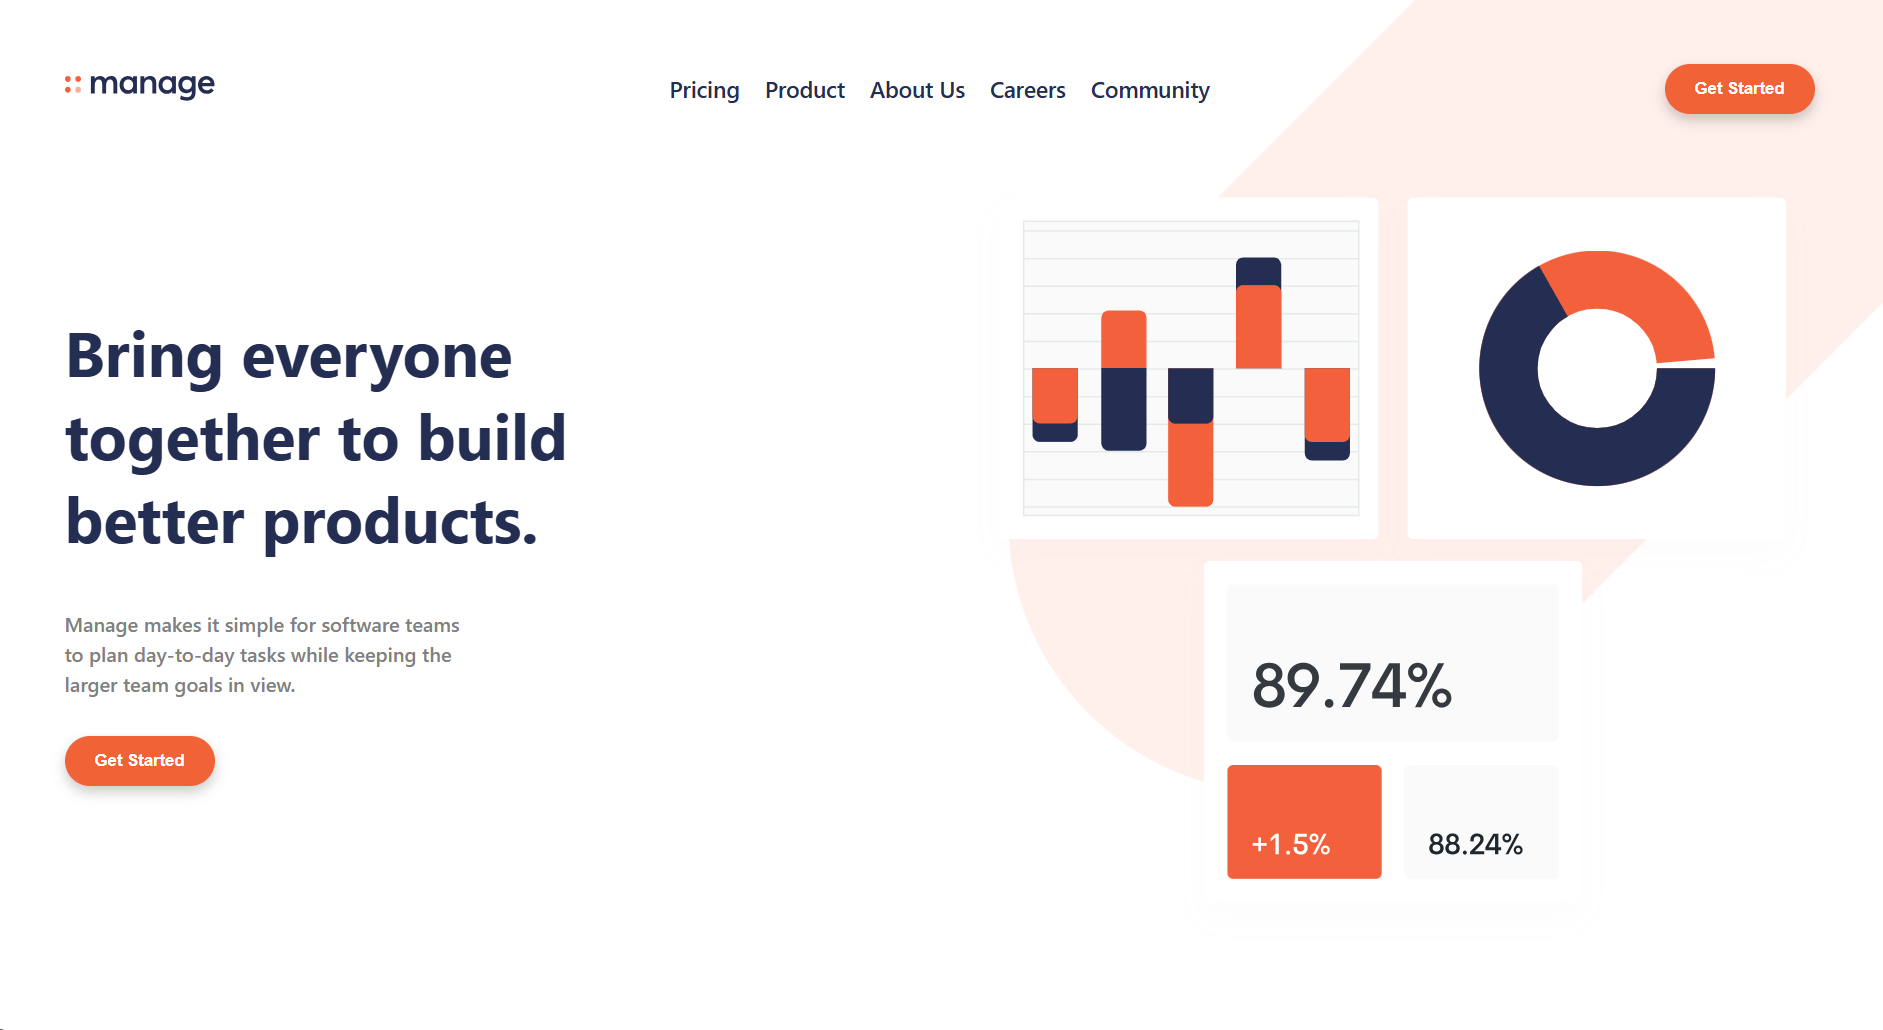
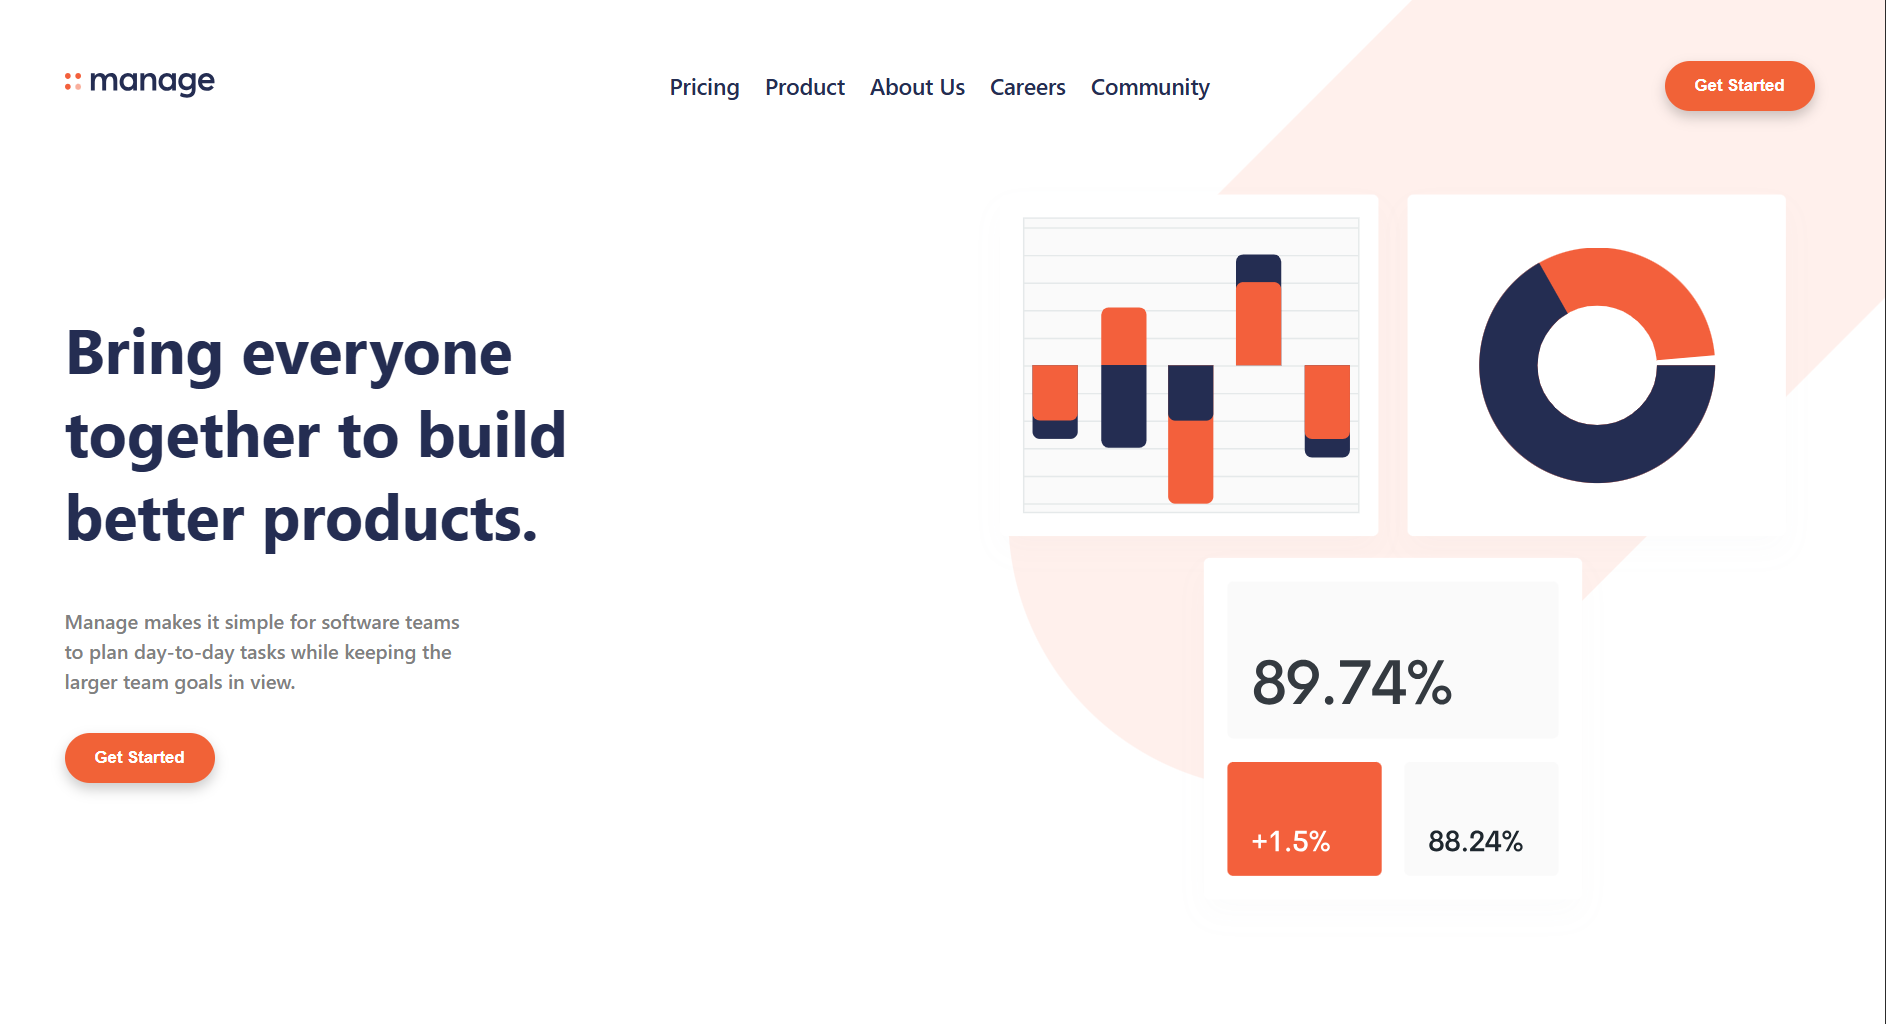
add link to btns

diff --git a/src/components/Projects.tsx b/src/components/Projects.tsx
@@ -4,7 +4,9 @@ import ts from "../assets/ts.svg"
 import triangle from "../assets/triangle.svg"
 import arrow from "../assets/arrow.svg"
 import m from "../assets/m.svg"
-import temurbek2 from "../assets/temurbek.png"
+// import temurbek2 from "../assets/temurbek.png"
+// import temur from "../assets/temur.png"
+import desktop from "../assets/desktop.png"
 import start from "../assets/start.png"
 import bookmark from "../assets/bookmark.png"
 import manage from "../assets/manage.png"
@@ -19,8 +21,8 @@ export default function Projects() {
                 {/* child-wrapper */}
                 <div className="relative flex flex-col px-4 xl:px-6 gap-2 w-[90vw] h-90.5 md:w-99.5 md:h-90.5 xl:h-150 xl:w-154.5 border-[#3637497D] border rounded-[10px] xl:rounded-[23px]">
                     {/* scale */}
-                    <div className="overflow-hidden relative rounded-[10px] xl:rounded-[14px] my-5 xl:my-9 mx-1 w-[80vw] h-45.5 xl:w-138 xl:h-82.5 md:w-89.5 bg-linear-to-r from-[#2D3567] to-[#151A3A] ">
-                        <img className="overflow-hidden absolute top-10 left-7 md:left-12 xl:left-11 rotate-5 transition-all hover:scale-120 w-65 xl:w-118.5 xl:h-64 rounded-t-[10px]" src={temurbek2} alt="" />
+                    <div className="group border border-white/10 overflow-hidden relative rounded-[10px] xl:rounded-[14px] my-5 xl:my-9 mx-1 w-[80vw] h-45.5 xl:w-138 xl:h-70.5 md:w-89.5 bg-linear-to-r from-[#2D3567] to-[#151A3A] ">
+                        <a target="blank" href="https://temurbekk-schooll.vercel.app/"><img className="w-full object-cover transition-all duration-500 ease-out group-hover:scale-95 group-hover:blur-sm overflow-hidden rounded-t-[10px]" src={desktop} alt="" /></a>
                     </div>
                     <h3 className="text-[18px] xl:text-[32px] font-bold">Temurbek School Web Platform</h3>
                     <p className="text-[12px] xl:text-[20px] text-[#BEC1DD]">A modern educational platform providing an accessible and user-friendly with clean UI and responsive layouts.</p>
@@ -35,7 +37,7 @@ export default function Projects() {
                         </div>
                         {/* text-wrapper */}
                         <div className="absolute right-0 top-2">
-                            <a href="https://temurbekk-schooll.vercel.app/" className="text-[12px] xl:text-[20px]  text-[#CBACF9] flex gap-2 hover:underline">Check Live Site<img src={arrow} alt="arrow" /></a>
+                            <a target="blank" href="https://temurbekk-schooll.vercel.app/" className="text-[12px] xl:text-[20px]  text-[#CBACF9] flex gap-2 hover:underline">Check Live Site<img src={arrow} alt="arrow" /></a>
                         </div>
                     </div>
                 </div>
@@ -43,8 +45,8 @@ export default function Projects() {
                 {/* child-wrapper */}
                 <div className="relative flex flex-col px-4 xl:px-6 gap-2 w-[90vw] h-90.5 md:w-99.5 md:h-90.5 xl:h-150 xl:w-154.5 border-[#3637497D] border rounded-[10px] xl:rounded-[23px]">
                     {/* scale */}
-                    <div className="overflow-hidden relative rounded-[10px] xl:rounded-[14px] my-5 xl:my-9 mx-1 w-[80vw] h-45.5 xl:w-138 xl:h-82.5 md:w-89.5 bg-linear-to-r from-[#2D3567] to-[#151A3A] ">
-                        <img className="overflow-hidden absolute top-10 left-7 md:left-12 xl:left-11 rotate-5 transition-all hover:scale-120 w-65 xl:w-118.5 xl:h-64 rounded-t-[10px]" src={start} alt="" />
+                    <div className="group border border-white/10 overflow-hidden relative rounded-[10px] xl:rounded-[14px] my-5 xl:my-9 mx-1 w-[80vw] h-45.5 xl:w-138 xl:h-70.5 md:w-89.5 bg-linear-to-r from-[#2D3567] to-[#151A3A] ">
+                        <a target="blank" href="https://start-up-three-mu.vercel.app/"><img className="w-full object-cover transition-all duration-500 ease-out group-hover:scale-95 group-hover:blur-sm overflow-hidden rounded-t-[10px]" src={start} alt="start" /></a>
                     </div>
                     <h3 className="text-[18px] xl:text-[32px] font-bold">Innovate. Grow. Succeed.</h3>
                     <p className="text-[12px] xl:text-[20px] text-[#BEC1DD]">Custom solutions that drive real results. Take the first step toward extraordinary achievements.</p>
@@ -59,7 +61,7 @@ export default function Projects() {
                         </div>
                         {/* text-wrapper */}
                         <div className="absolute right-0 top-2">
-                            <a href="https://start-up-three-mu.vercel.app/" className="text-[12px] xl:text-[20px]  text-[#CBACF9] flex gap-2 hover:underline">Check Live Site<img src={arrow} alt="arrow" /></a>
+                            <a target="blank" href="https://start-up-three-mu.vercel.app/" className="text-[12px] xl:text-[20px]  text-[#CBACF9] flex gap-2 hover:underline">Check Live Site<img src={arrow} alt="arrow" /></a>
                         </div>
                     </div>
                 </div>
@@ -70,8 +72,8 @@ export default function Projects() {
                 {/* child-wrapper */}
                 <div className="relative flex flex-col px-4 xl:px-6 gap-2 w-[90vw] h-90.5 md:w-99.5 md:h-90.5 xl:h-150 xl:w-154.5 border-[#3637497D] border rounded-[10px] xl:rounded-[23px]">
                     {/* scale */}
-                    <div className="overflow-hidden relative rounded-[10px] xl:rounded-[14px] my-5 xl:my-9 mx-1 w-[80vw] h-45.5 xl:w-138 xl:h-82.5 md:w-89.5 bg-linear-to-r from-[#2D3567] to-[#151A3A] ">
-                        <img className="overflow-hidden absolute top-10 left-7 md:left-12 xl:left-11 rotate-5 transition-all hover:scale-120 w-65 xl:w-118.5 xl:h-64 rounded-t-[10px]" src={manage} alt="" />
+                    <div className="group border border-white/10 overflow-hidden relative rounded-[10px] xl:rounded-[14px] my-5 xl:my-9 mx-1 w-[80vw] h-45.5 xl:w-138 xl:h-70.5 md:w-89.5 bg-linear-to-r from-[#2D3567] to-[#151A3A] ">
+                        <a target="blank" href="https://manage-landing-page-master-ozodbek.vercel.app/"><img className="w-full object-cover transition-all duration-500 ease-out group-hover:scale-95 group-hover:blur-sm overflow-hidden rounded-t-[10px]" src={manage} alt="manage" /></a>
                     </div>
                     <h3 className="text-[18px] xl:text-[32px] font-bold">Management platform</h3>
                     <p className="text-[12px] xl:text-[20px] text-[#BEC1DD]">Manage helps teams plan tasks, track progress, and stay focused on what matters most.</p>
@@ -86,7 +88,7 @@ export default function Projects() {
                         </div>
                         {/* text-wrapper */}
                         <div className="absolute right-0 top-2">
-                            <a href="https://manage-landing-page-master-ozodbek.vercel.app/" className="text-[12px] xl:text-[20px]  text-[#CBACF9] flex gap-2 hover:underline">Check Live Site<img src={arrow} alt="arrow" /></a>
+                            <a target="blank" href="https://manage-landing-page-master-ozodbek.vercel.app/" className="text-[12px] xl:text-[20px]  text-[#CBACF9] flex gap-2 hover:underline">Check Live Site<img src={arrow} alt="arrow" /></a>
                         </div>
                     </div>
                 </div>
@@ -94,11 +96,11 @@ export default function Projects() {
                 {/* child-wrapper */}
                 <div className="relative flex flex-col px-4 xl:px-6 gap-2 w-[90vw] h-90.5 md:w-99.5 md:h-90.5 xl:h-150 xl:w-154.5 border-[#3637497D] border rounded-[10px] xl:rounded-[23px]">
                     {/* scale */}
-                    <div className="overflow-hidden relative rounded-[10px] xl:rounded-[14px] my-5 xl:my-9 mx-1 w-[80vw] h-45.5 xl:w-138 xl:h-82.5 md:w-89.5 bg-linear-to-r from-[#2D3567] to-[#151A3A] ">
-                        <img className="overflow-hidden absolute top-10 left-7 md:left-12 xl:left-11 rotate-5 transition-all hover:scale-120 w-65 xl:w-118.5 xl:h-64 rounded-t-[10px]" src={bookmark} alt="" />
+                    <div className="group border border-white/10 overflow-hidden relative rounded-[10px] xl:rounded-[14px] my-5 xl:my-9 mx-1 w-[80vw] h-45.5 xl:w-138 xl:h-70.5 md:w-89.5 bg-linear-to-r from-[#2D3567] to-[#151A3A] ">
+                        <a target="blank" href="https://bookmark-landing-page-ozodbek.vercel.app/"><img className="w-full object-cover transition-all duration-500 ease-out group-hover:scale-95 group-hover:blur-sm overflow-hidden rounded-t-[10px]" src={bookmark} alt="bookmark" /></a>
                     </div>
                     <h3 className="text-[18px] xl:text-[32px] font-bold">Bookmark web</h3>
-                    <p className="text-[12px] xl:text-[20px] text-[#BEC1DD]">This allows you to bookmark your favourite website which you do not lose your access to enter website fast.</p>
+                    <p className="text-[12px] xl:text-[20px] text-[#BEC1DD]">This allows you to bookmark your favourite website which you don't lose your access to enter website fast.</p>
                     <div className="relative">
                         {/* img-wrapper */}
                         <div className="relative">
@@ -110,7 +112,7 @@ export default function Projects() {
                         </div>
                         {/* text-wrapper */}
                         <div className="absolute right-0 top-2">
-                            <a href="https://bookmark-landing-page-ozodbek.vercel.app/" className="text-[12px] xl:text-[20px]  text-[#CBACF9] flex gap-2 hover:underline">Check Live Site<img src={arrow} alt="arrow" /></a>
+                            <a target="blank" href="https://bookmark-landing-page-ozodbek.vercel.app/" className="text-[12px] xl:text-[20px]  text-[#CBACF9] flex gap-2 hover:underline">Check Live Site<img src={arrow} alt="arrow" /></a>
                         </div>
                     </div>
                 </div>
